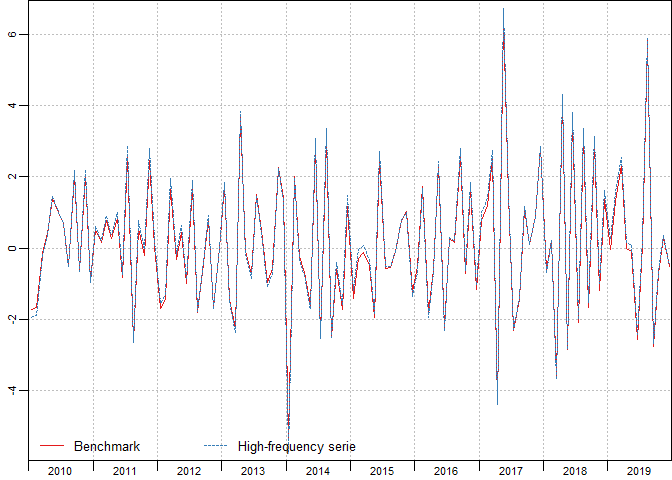
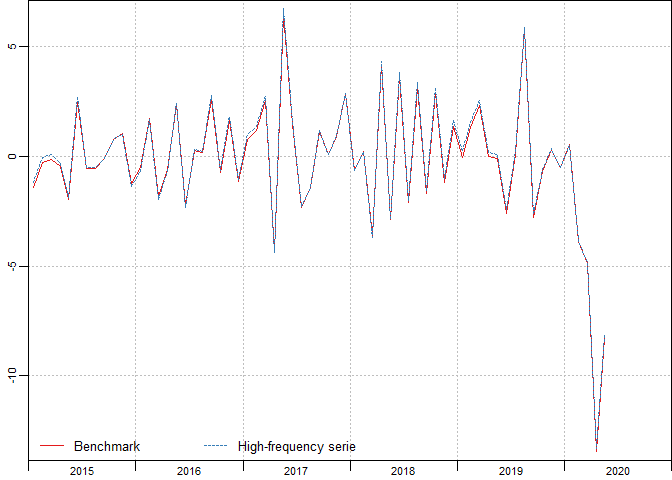
readme

diff --git a/README.md b/README.md
@@ -55,9 +55,9 @@ plot(in_sample(benchmark))
 
 ``` r
 plot(in_dicator(benchmark,type="changes"),
-         start=c(2010,1),end=c(2019,12))
+         start=c(2015,1),end=c(2020,12))
 plot(in_dicator(benchmark,type="contributions"),
-         start=c(2010,1),end=c(2019,12))
+         start=c(2015,1),end=c(2020,12))
 ```
 
 <img src="man/figures/README-unnamed-chunk-5-1.png" width="50%" /><img src="man/figures/README-unnamed-chunk-5-2.png" width="50%" />
